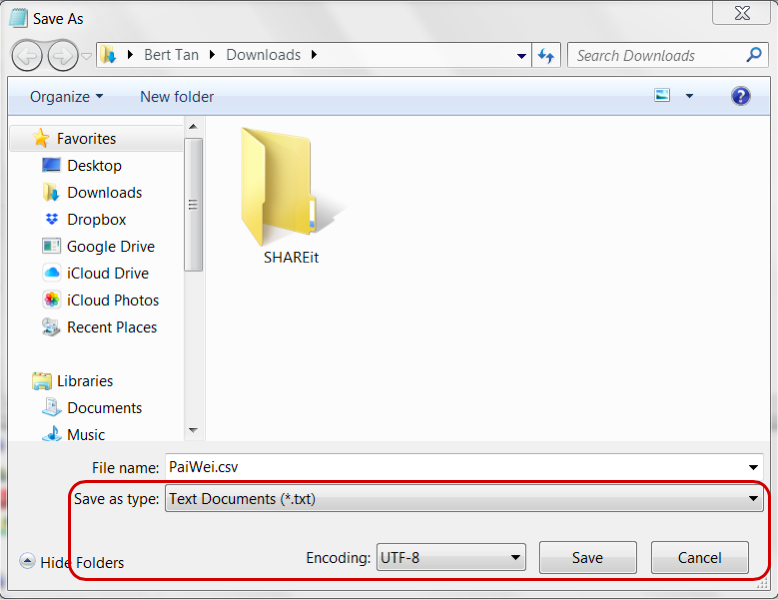
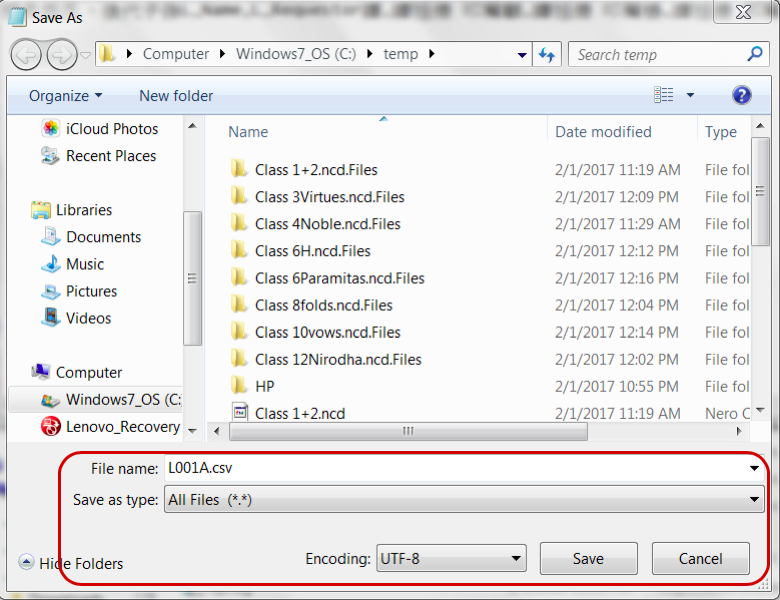
Feature:	Bug Fix User Guide - found by Brother Guo Files: 	PaiWei/UG.php 	PaiWei/img/o_SaveAsUTF8.png

Changed region(s): [[0.0, 0.0, 1.0, 1.0]]

diff --git a/PaiWei/UG.php b/PaiWei/UG.php
@@ -245,7 +245,7 @@ input[type=submit] {
 						</li><br/>
 						<li>請用微軟的 Notepad 開啟您剛才所存的牌位檔案，並於左上角『檔案』的下拉選項中選擇『保存為』(Save As) 後，
 							您會看到如下的『對話框』; 請於『檔案名』(File Name) 資料格中確認您要的檔案名, 於『保存格式』(Save As Type)
-							資料格中確認格式為『Text Documents (*.txt)』，並於『編碼』(Encoding) 資料格的下列選項中點選『UTF-8』.
+							資料格中確認格式為『All Files (*.*)』，並於『編碼』(Encoding) 資料格的下列選項中點選『UTF-8』.
 							然後點選在右下角的『保存』(Save)。<br/><br/>
 							<img src="./img/o_SaveAsUTF8.png" alt="" style="width: 700px; height: auto;">
 						</li><br/>
@@ -429,7 +429,7 @@ input[type=submit] {
 						</li><br/>
 						<li>Use MS Notepad and open the file you just saved. Click "File" on the upper left corner
 							and select "Save As" in the dropdown list, and a dialog box will be shown as below.
-							Please confirm the file name in the "File Name" field, select "Text Documents (*.txt)"
+							Please confirm the file name in the "File Name" field, select "All Files (*.*)"
 							in the "Save As Type" field, and select "UTF-8" in the "Encoding" field. Finally,
 							click "Save" on the lower right bottom of the box.<br/><br/>
 							<img src="./img/o_SaveAsUTF8.png" alt="" style="width: 700px; height: auto;">
